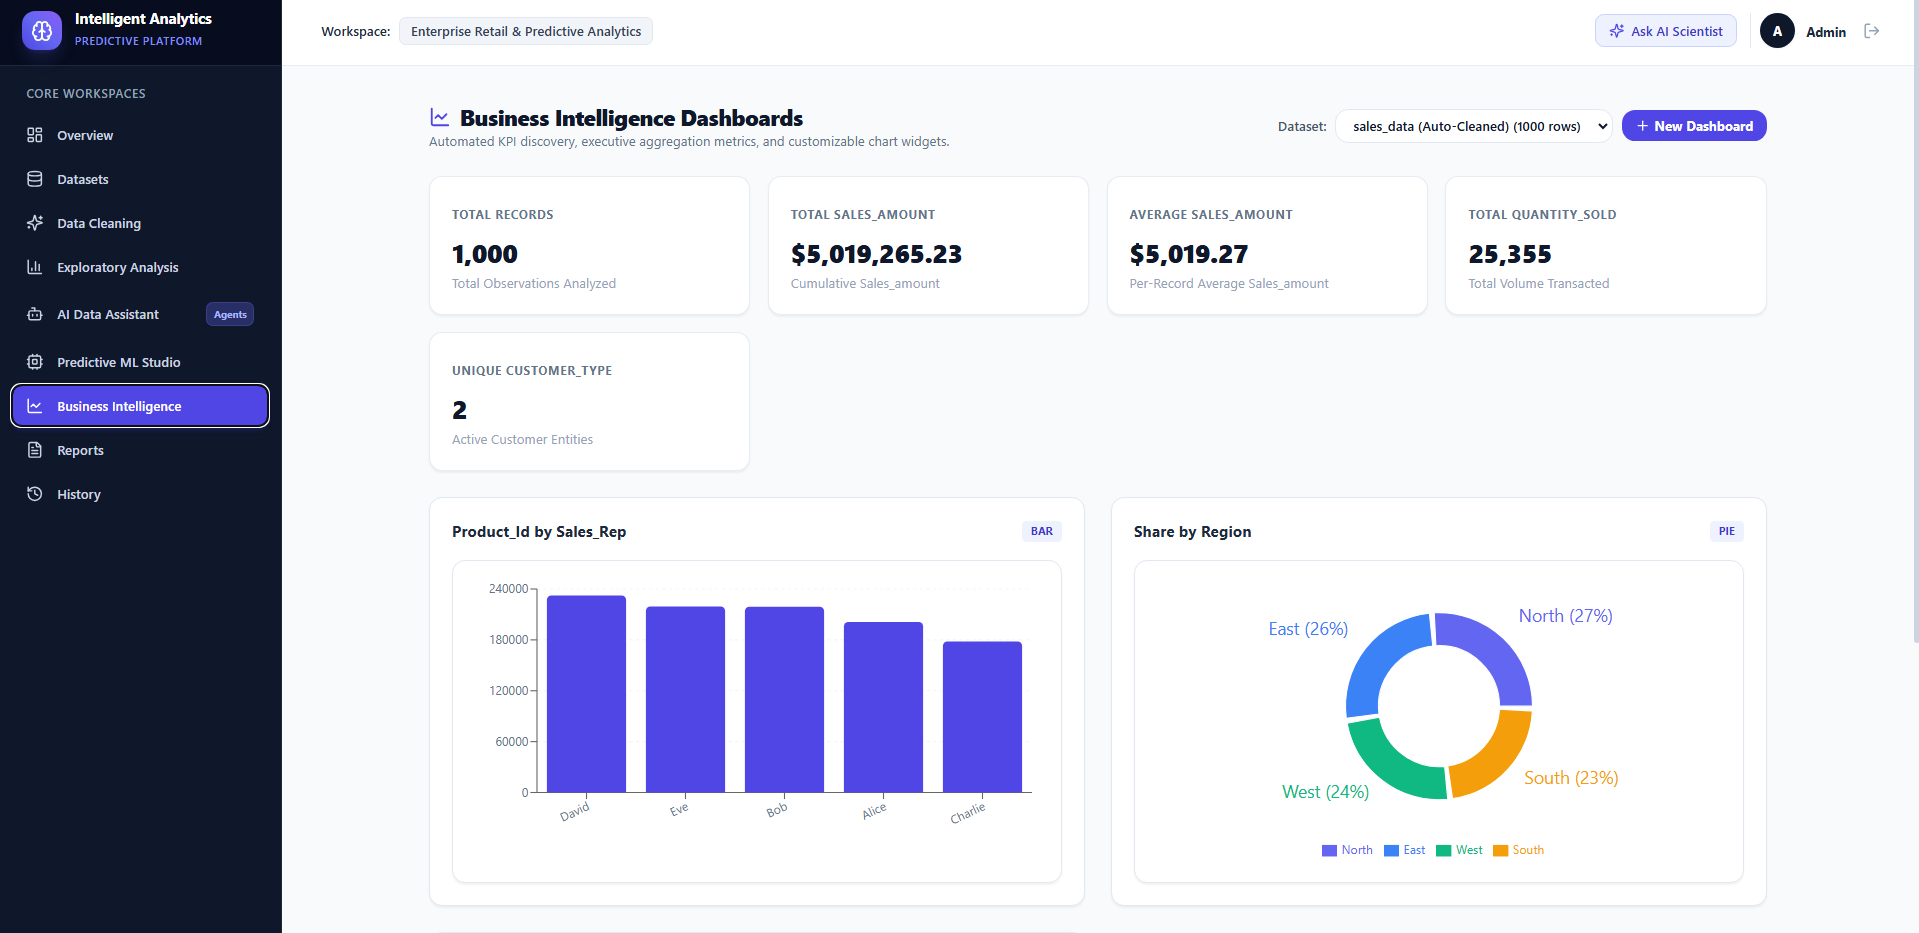
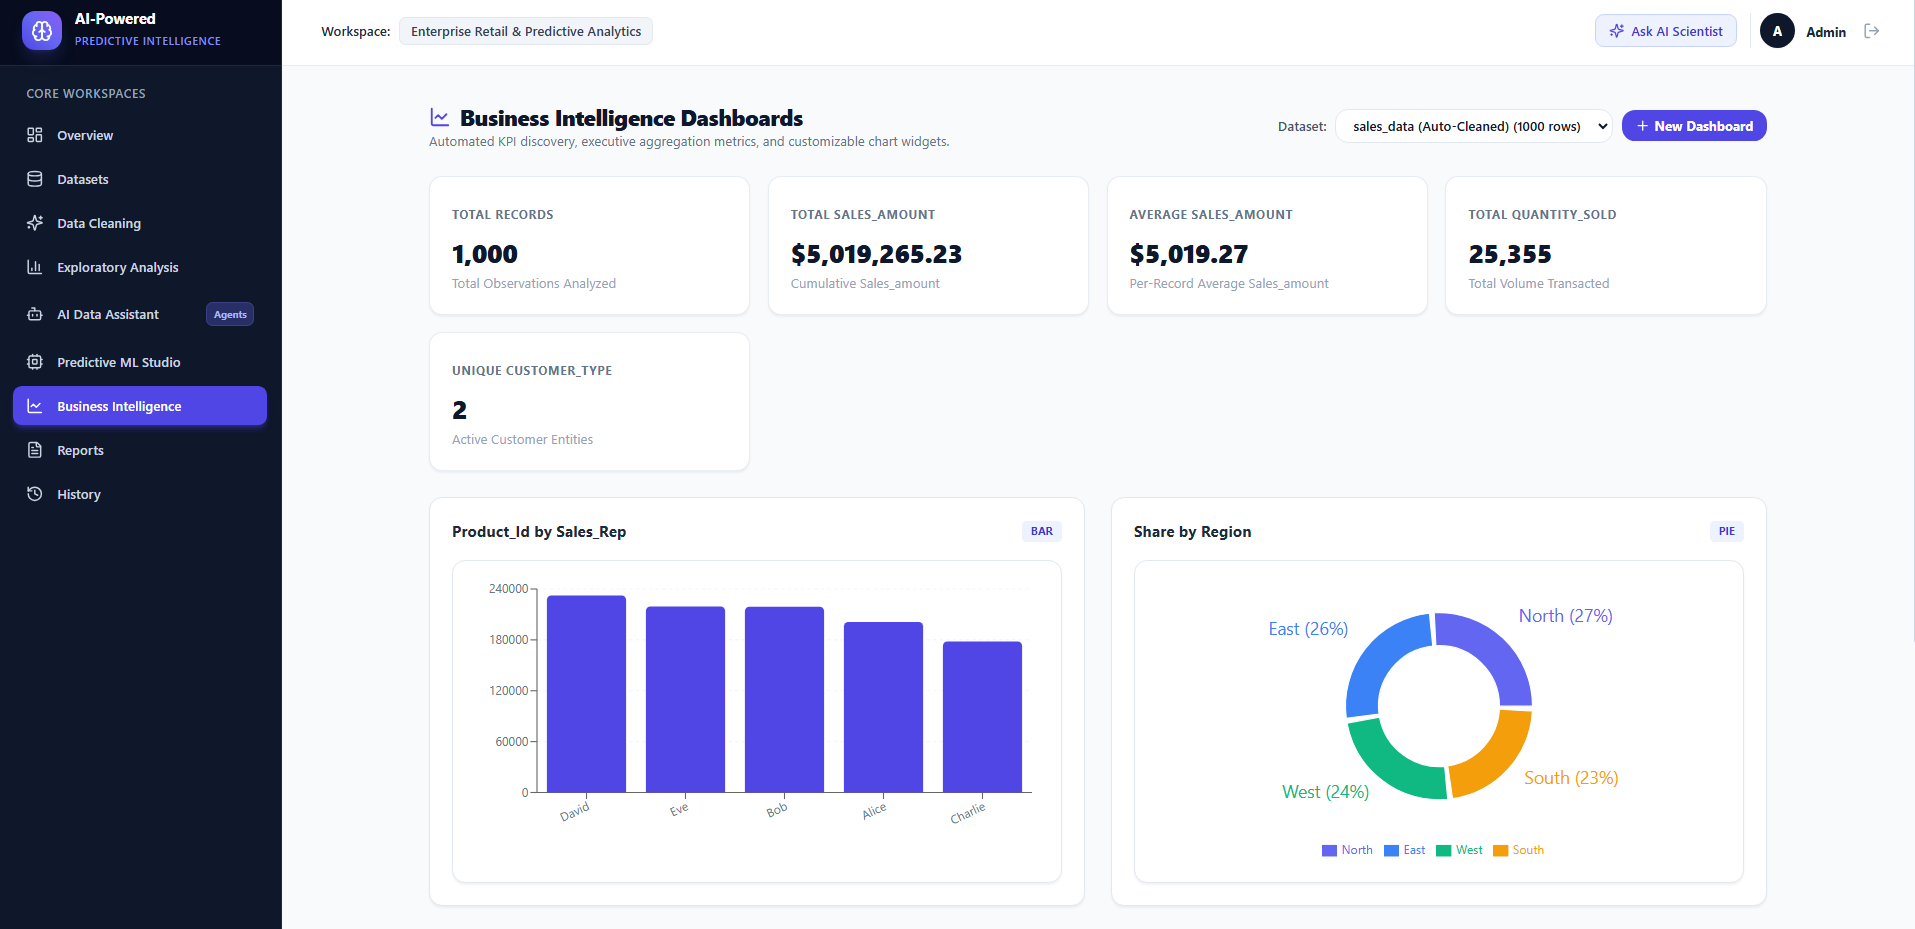
Update

diff --git a/src/pages/LoginPage.tsx b/src/pages/LoginPage.tsx
@@ -42,8 +42,8 @@ export const LoginPage: React.FC = () => {
         <div className="inline-flex items-center justify-center w-12 h-12 rounded-2xl bg-indigo-600 text-white shadow-lg shadow-indigo-600/30 mb-3">
           <Brain className="w-6 h-6" />
         </div>
-        <h2 className="text-2xl font-black tracking-tight text-white">Intelligent Data Analytics</h2>
-        <p className="mt-1 text-xs text-slate-400">Sign in to your autonomous predictive intelligence platform</p>
+        <h2 className="text-2xl font-black tracking-tight text-white">AI-Powered Predictive Intelligence Platform</h2>
+        <p className="mt-1 text-xs text-slate-400">Sign in to your autonomous platform</p>
       </div>
 
       <div className="mt-8 sm:mx-auto sm:w-full sm:max-w-md relative z-10">

diff --git a/src/components/common/Sidebar.tsx b/src/components/common/Sidebar.tsx
@@ -30,8 +30,8 @@ export const Sidebar: React.FC<{ isOpen: boolean; toggleSidebar: () => void }> =
           <Brain className="w-5 h-5" />
         </div>
         <div>
-          <h1 className="text-sm font-bold text-white tracking-tight leading-none">Intelligent Analytics</h1>
-          <span className="text-[10px] font-semibold tracking-wider uppercase text-indigo-400">Predictive Platform</span>
+          <h1 className="text-sm font-bold text-white tracking-tight leading-none">AI-Powered</h1>
+          <span className="text-[10px] font-semibold tracking-wider uppercase text-indigo-400">Predictive Intelligence</span>
         </div>
       </div>
 

diff --git a/index.html b/index.html
@@ -4,7 +4,7 @@
     <meta charset="UTF-8" />
     <link rel="icon" type="image/svg+xml" href="/vite.svg" />
     <meta name="viewport" content="width=device-width, initial-scale=1.0" />
-    <title>Intelligent Data Analytics & Predictive Intelligence Platform</title>
+    <title>AI-Powered Predictive Intelligence Platform</title>
     <link rel="preconnect" href="https://fonts.googleapis.com">
     <link rel="preconnect" href="https://fonts.gstatic.com" crossorigin>
     <link href="https://fonts.googleapis.com/css2?family=Inter:wght@300;400;500;600;700;800&family=JetBrains+Mono:wght@400;500;600&display=swap" rel="stylesheet">

diff --git a/src/pages/RegisterPage.tsx b/src/pages/RegisterPage.tsx
@@ -37,7 +37,7 @@ export const RegisterPage: React.FC = () => {
           <Brain className="w-6 h-6" />
         </div>
         <h2 className="text-2xl font-black tracking-tight text-white">Create New Workspace</h2>
-        <p className="mt-1 text-xs text-slate-400">Join the intelligent analytics & predictive intelligence platform</p>
+        <p className="mt-1 text-xs text-slate-400">Join the AI-powered predictive intelligence platform</p>
       </div>
 
       <div className="mt-8 sm:mx-auto sm:w-full sm:max-w-md relative z-10">

diff --git a/app/reports/generator.py b/app/reports/generator.py
@@ -170,7 +170,7 @@ class ReportGenerator:
         
         # Document Header
         story.append(Paragraph(sections.get("title", "Business Intelligence Report"), title_style))
-        story.append(Paragraph(f"Generated on {sections.get('generated_at', '')} | Intelligent Analytics Platform", subtitle_style))
+        story.append(Paragraph(f"Generated on {sections.get('generated_at', '')} | AI-Powered Predictive Intelligence Platform", subtitle_style))
         story.append(HRFlowable(width="100%", thickness=1.5, color=navy_accent, spaceBefore=0, spaceAfter=14))
         
         # 1. Executive Summary

diff --git a/app/core/config.py b/app/core/config.py
@@ -5,7 +5,7 @@ from pydantic_settings import BaseSettings
 BASE_DIR = Path(__file__).resolve().parent.parent.parent
 
 class Settings(BaseSettings):
-    PROJECT_NAME: str = "Intelligent Data Analytics & Predictive Intelligence Platform"
+    PROJECT_NAME: str = "AI-Powered Predictive Intelligence Platform"
     API_V1_STR: str = "/api"
     
     # Storage Paths

diff --git a/app/main.py b/app/main.py
@@ -166,7 +166,7 @@ async def lifespan(app: FastAPI):
 
 app = FastAPI(
     title=settings.PROJECT_NAME,
-    description="Enterprise-grade Intelligent Data Analytics & Predictive Intelligence Platform API",
+    description="Enterprise-grade AI-Powered Predictive Intelligence Platform API",
     version="1.0.0",
     lifespan=lifespan
 )

diff --git a/README.md b/README.md
@@ -1,4 +1,4 @@
-# Intelligent Data Analytics & Predictive Intelligence Platform
+# AI-Powered Predictive Intelligence Platform
 
 
 An enterprise-grade, end-to-end, AI-powered predictive intelligence platform that functions as an autonomous data scientist. The application automates ingestion of heterogeneous business datasets, profiles data schema and quality, executes non-destructive data cleaning and tabular structuring, enables natural language SQL querying via DuckDB, trains machine learning models, generates live forecasts, builds real-time BI dashboards, and compiles boardroom-ready multi-format business reports (PDF, Excel XLSX, and CSV).
@@ -14,7 +14,7 @@ To democratize advanced data science and predictive analytics for business profe
 
 Organizations often maintain disconnected business data across disparate spreadsheets (CSV, Excel) and SQL/DuckDB databases. Non-technical stakeholders struggle to clean missing values, normalize formats, discover hidden correlations, select predictive algorithms, and extract actionable insights.
 
-The **Intelligent Data Analytics & Predictive Intelligence Platform** solves this by uniting automated data profiling, intelligent tabular cleaning, multi-agent conversational data analysis, full-lifecycle predictive machine learning (regression, classification, clustering, time-series forecasting), and dynamic executive reporting into a cohesive, secure web application:
+The **AI-Powered Predictive Intelligence Platform** solves this by uniting automated data profiling, intelligent tabular cleaning, multi-agent conversational data analysis, full-lifecycle predictive machine learning (regression, classification, clustering, time-series forecasting), and dynamic executive reporting into a cohesive, secure web application:
 
 - **Autonomous Data Cleaning**: Uploaded datasets are automatically inspected, standardized, deduplicated, and formatted into clean tabular records with a single click.
 - **Conversational Analytics**: Users query datasets in natural language; queries are translated into safe, parameterized, read-only DuckDB SQL with interactive Recharts visualizations.
@@ -27,7 +27,7 @@ The **Intelligent Data Analytics & Predictive Intelligence Platform** solves thi
 ## Architecture Structure
 
 
-Intelligent Data Analytics & Predictive Intelligence Platform/
+AI-Powered Predictive Intelligence Platform/
 ├── app/                                 # Backend FastAPI Architecture
 │   ├── analytics/                       # Analytical Profiling & Summary Engines
 │   │   ├── duckdb_manager.py            # High-performance DuckDB query manager
@@ -142,7 +142,7 @@ tests/unit/test_reports.py         .     [Pass]
 
 ## Conclusion
 
-The **Intelligent Data Analytics & Predictive Intelligence Platform** bridges the divide between non-technical business decision-makers and complex data science infrastructure. 
+The **AI-Powered Predictive Intelligence Platform** bridges the divide between non-technical business decision-makers and complex data science infrastructure. 
 
 By combining FastAPI's asynchronous backend performance, DuckDB's analytical query capabilities, Scikit-learn's modeling tools, and an intuitive React 18 interface, the platform delivers autonomous data science workflows: from raw messy file uploads to auto-cleaned tabular records, natural-language exploration, predictive model inference, and executive boardroom reports.
 
